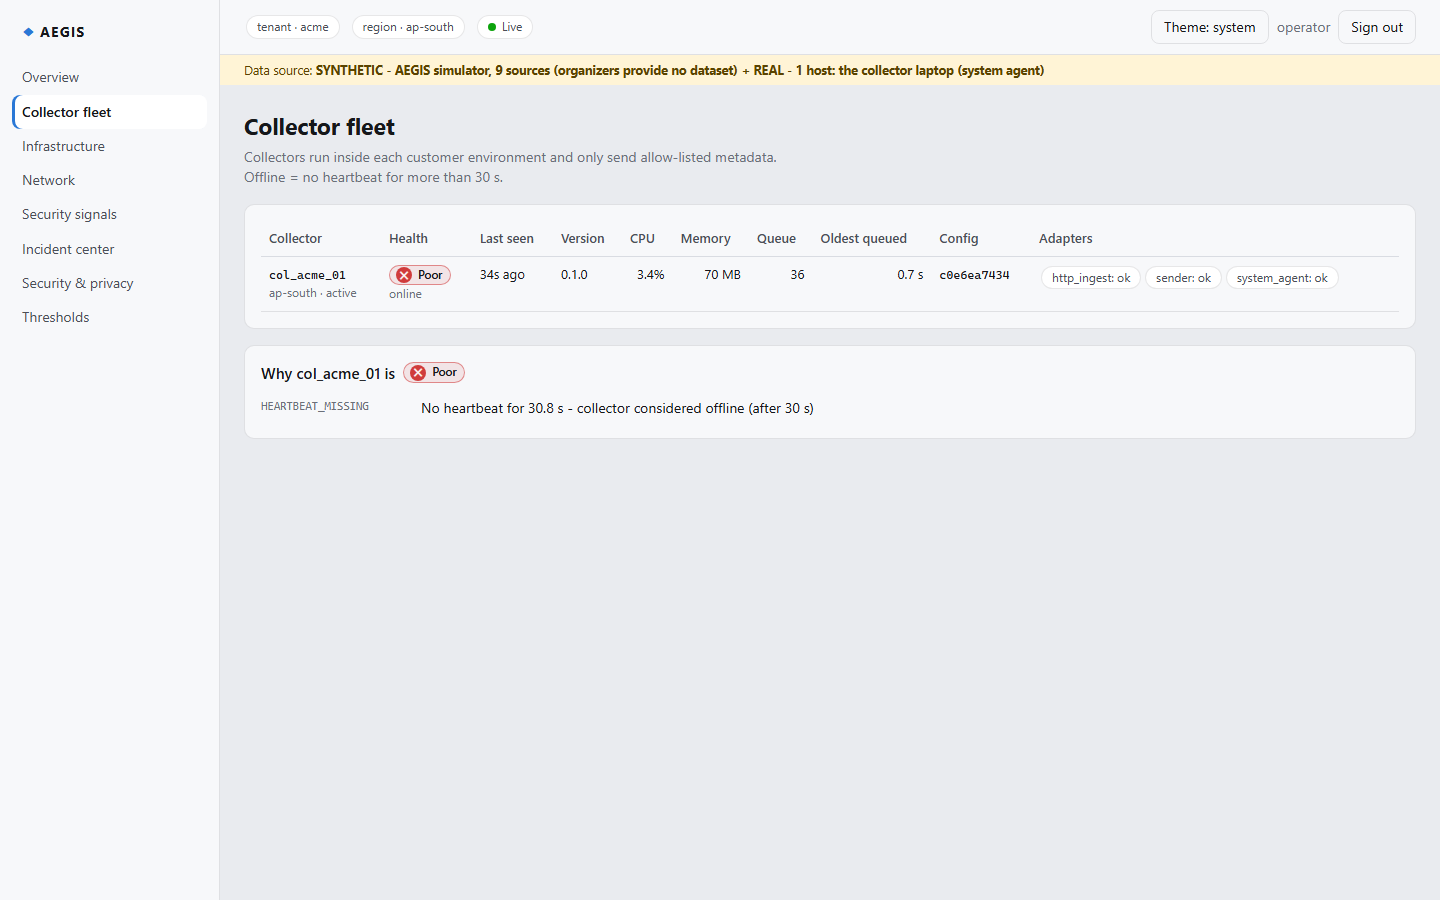
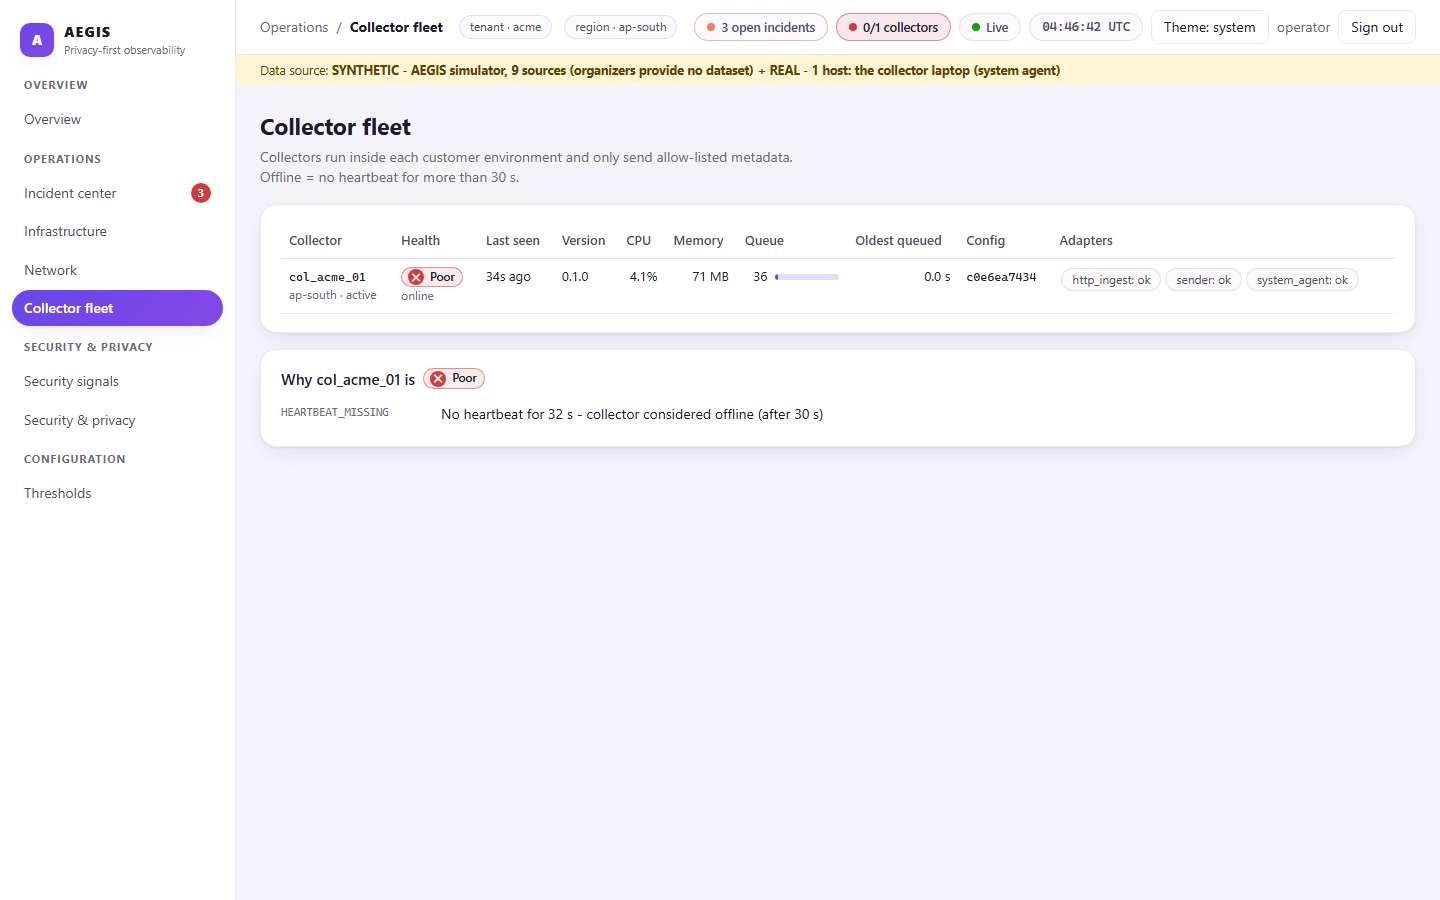
K36 fixed live (3f43a73): e2e 12/12, KPI card 3.9 s (was 6.3 s); refreshed screenshots

diff --git a/docs/KNOWN_ISSUES.md b/docs/KNOWN_ISSUES.md
@@ -37,4 +37,4 @@
 | K33 | Notification pull every 5 s -> device alert latency up to ~5 s + incident detection time | Not instant push | Long-poll or WebSocket for collectors if needed | ACCEPTED |
 | K34 | System agent latency is TCP connect time to 1.1.1.1/8.8.8.8:443 (ICMP needs admin on Windows); packet loss = failed connects / attempts | Approximations of network health, labelled as such | Configurable probe targets (e.g. the gateway); ICMP where privileged | ACCEPTED |
 | K35 | The real laptop source is never retired: when the agent or collector is off it stays Poor (NO_DATA), and real CPU/memory bursts open unscripted incidents (memory idles at 85-88 % vs Fair 88 %) | Extra incidents possible during a demo | Close unneeded apps; source retirement/maintenance mode is future work | ACCEPTED |
-| K36 | `GET /api/v1/aiops/summary` (and other incident reads) first call `aiops.store.flush()`, which writes pending alerts/incidents ONE ROW PER ROUND TRIP to Supabase Mumbai from the US VPS (~0.2-0.3 s each). With many alert updates (real host source) the request can take several seconds; dashboard KPI cards and the header incident pill show 'loading' until it returns | Slow incident figures on the dashboard; no data loss | Part 1 (deployed 12e76a4): multi-row upserts, one writer, stale-snapshot guard; 600 alerts = 3 INSERTs instead of 601. Measured live afterwards: summary still 6.3 s (round trips: transaction + 3 queries + waiting on flush). Part 2: summary served from AIOps engine memory (no database); totals now cover the period since the engine started (`since`) | FIX 2 PENDING DEPLOY |
+| K36 | `GET /api/v1/aiops/summary` (and other incident reads) first call `aiops.store.flush()`, which writes pending alerts/incidents ONE ROW PER ROUND TRIP to Supabase Mumbai from the US VPS (~0.2-0.3 s each). With many alert updates (real host source) the request can take several seconds; dashboard KPI cards and the header incident pill show 'loading' until it returns | Slow incident figures on the dashboard; no data loss | Part 1 (deployed 12e76a4): multi-row upserts, one writer, stale-snapshot guard; 600 alerts = 3 INSERTs instead of 601. Measured live afterwards: summary still 6.3 s (round trips: transaction + 3 queries + waiting on flush). Part 2: summary served from AIOps engine memory (no database); totals now cover the period since the engine started (`since`) | FIXED (3f43a73): live e2e K36 test passes, KPI card filled 3.9 s after navigation start (was 6.3 s; both figures include page load + sign-in check). Trade-off: noise totals restart with the backend |

diff --git a/docs/PROJECT_STATE.md b/docs/PROJECT_STATE.md
@@ -3,7 +3,7 @@
 - **Current phase:** 8 partial: Privacy Glass (M3) done and deployed (24cbdce, 2026-11-21); 9 and 10 complete
 - **Last approved phase:** 6 (approved 2026-11-20). **Phase 8 Privacy Glass approved and built 2026-11-21; other Phase 7-8 items deferred by user decision** (implement after the 2026-11-21 09:00 evaluation); next: demo/validation (9-10) on request
 - **Evaluation:** 2026-11-21 09:00 - criteria: functional product, two-tier (frontend + backend + DB), AI engine, security. Demo: `scripts/demo.ps1` + `docs/DEMO_SCRIPT.md`
-- **Git / deployed:** backend 24cbdce + dashboard bec7b74 (real-host banner) on the VPS (build.txt). Live e2e 11/11 on 24cbdce (2026-11-21; an earlier run was invalid because a demo session held port 9100). **The user commits and pushes; never commit/push without being told.**
+- **Git / deployed:** backend + dashboard 3f43a73 on the VPS (build.txt): quick-win UI (ADR-55), K36 fix (ADR-56/57). Live e2e 12/12. Live e2e 11/11 on 24cbdce (2026-11-21; an earlier run was invalid because a demo session held port 9100). **The user commits and pushes; never commit/push without being told.**
 - **Database:** Supabase (ADR-18, Free plan): `aegis-ap-south` (Mumbai) + `aegis-eu-west` (Frankfurt), both at migration 0005 (verified: RLS + policies on all tenant tables, aegis_app no DELETE). Local docker `aegis-pg` (127.0.0.1:55432) for automated tests only.
 - **Real data:** system agent ON in apps/collector/.env since 2026-11-21 (ADR-54): the laptop is a REAL 10th source (`HOST_<hostname>`, pseudonymised); verified offline and live (`phase8_system_agent_live.json`). Risks K34/K35.
 - **LLM:** Gemini (free tier) key in apps/saas-api/.env and VPS /etc/aegis/saas.env (root:aegis 0640); enabled for ap-south only (eu-west disabled: residency)

diff --git a/docs/TEST_RESULTS.md b/docs/TEST_RESULTS.md
@@ -112,3 +112,4 @@
 | 8 | **K36 batched AIOps persistence**: 600 alerts + 1 incident persisted with 3 INSERT statements (old code: 601, test fails on it); stale incident version / older alert snapshot never overwrite newer rows; failed write re-queues everything. Gate 244/244 normal and CI parity, web 24/24 | PASSED | `test_store_flush.py` (3) |
 | 8 | **K36 measured live** (new e2e test, backend 12e76a4): first `/aiops/summary` response 6,297 ms, KPI card 6,322 ms -> FAILS the 5 s limit, so batching alone was not enough. Same run: AI-engine incident test did not find a new 'Baseline deviation ... cpu_usage' row (artifact overwritten; re-check after fix) | FAILED (diagnostic) | `e2e/live.spec.ts` K36 test |
 | 8 | **K36 part 2**: summary computed from engine memory (open by priority, totals, signals, since); unit test incl. resolution and tenant isolation. Gate 245/245 normal and CI parity, web 24/24 | PASSED | `test_aiops_engine.py::test_summary_from_engine_memory_counts_open_and_signals` |
+| 8 | **Live Playwright on backend + dashboard 3f43a73 (K36 fixed), demo stopped: 12/12** incl. new K36 timing test (first summary response 3,898 ms, KPI card 3,947 ms after navigation start, limit 5 s; previously 6,322 ms) and the AI-engine incident test (passed; the earlier miss did not recur) | PASSED (2026-11-21 ~10:15 IST) | `scripts/e2e_live.py`, screenshots |
